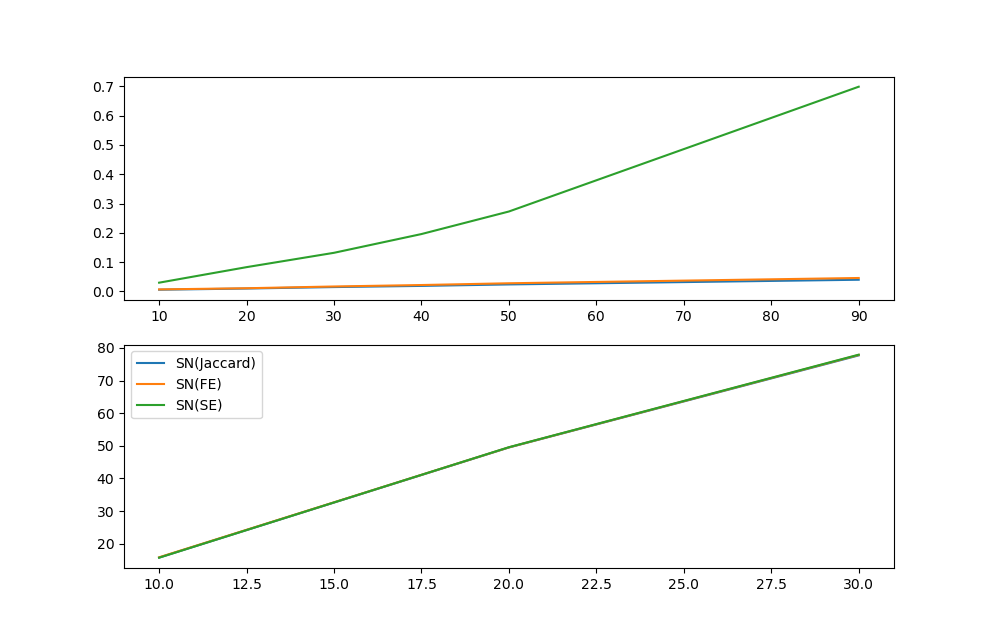
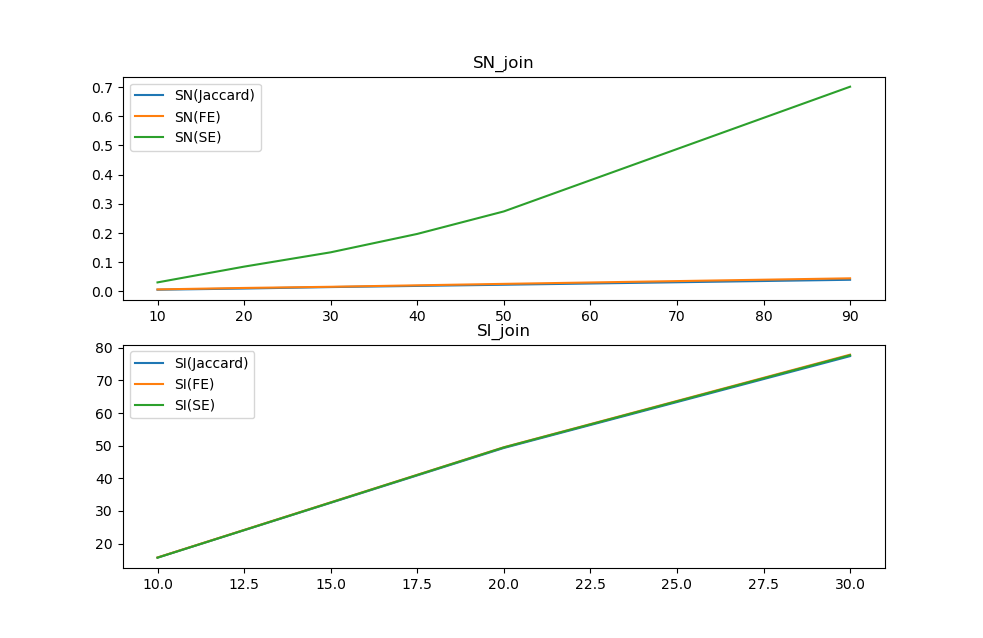
join evalutaion

diff --git a/src/fi/Evaluate_Join.py b/src/fi/Evaluate_Join.py
@@ -136,8 +136,11 @@ if __name__ == "__main__":
     axes[0].plot(num_synonyms_1, t1)
     axes[0].plot(num_synonyms_1, t2)
     axes[0].plot(num_synonyms_1, t3)
+    axes[0].set_title('SN_join')
+    axes[0].legend(['SN(Jaccard)', 'SN(FE)', 'SN(SE)'])
     axes[1].plot(num_synonyms_2, t4)
     axes[1].plot(num_synonyms_2, t5)
     axes[1].plot(num_synonyms_2, t6)
-    plt.legend(['SN(Jaccard)', 'SN(FE)', 'SN(SE)', 'SI(Jaccard)', 'SI(FE)', 'SI(SE)'])
+    axes[1].set_title('SI_join')
+    plt.legend(['SI(Jaccard)', 'SI(FE)', 'SI(SE)'])
     plt.show()
